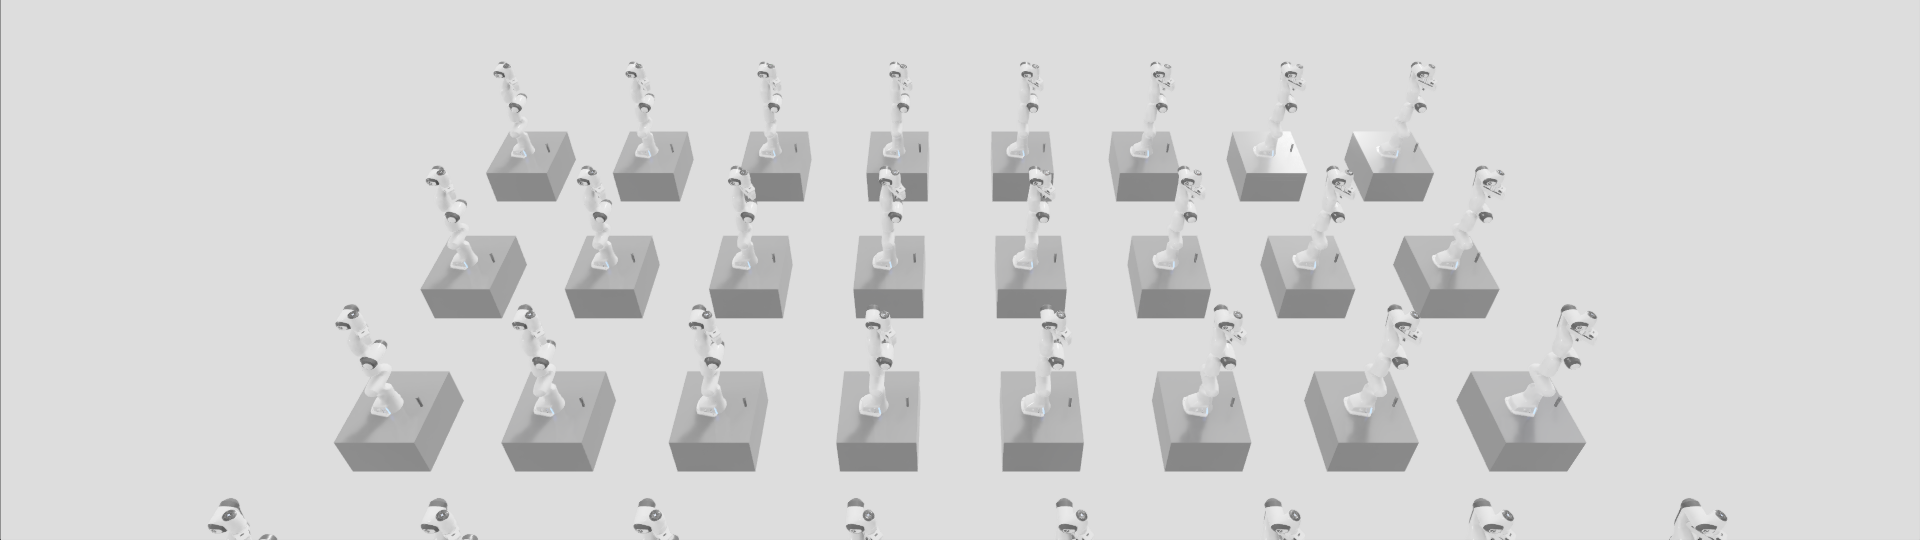
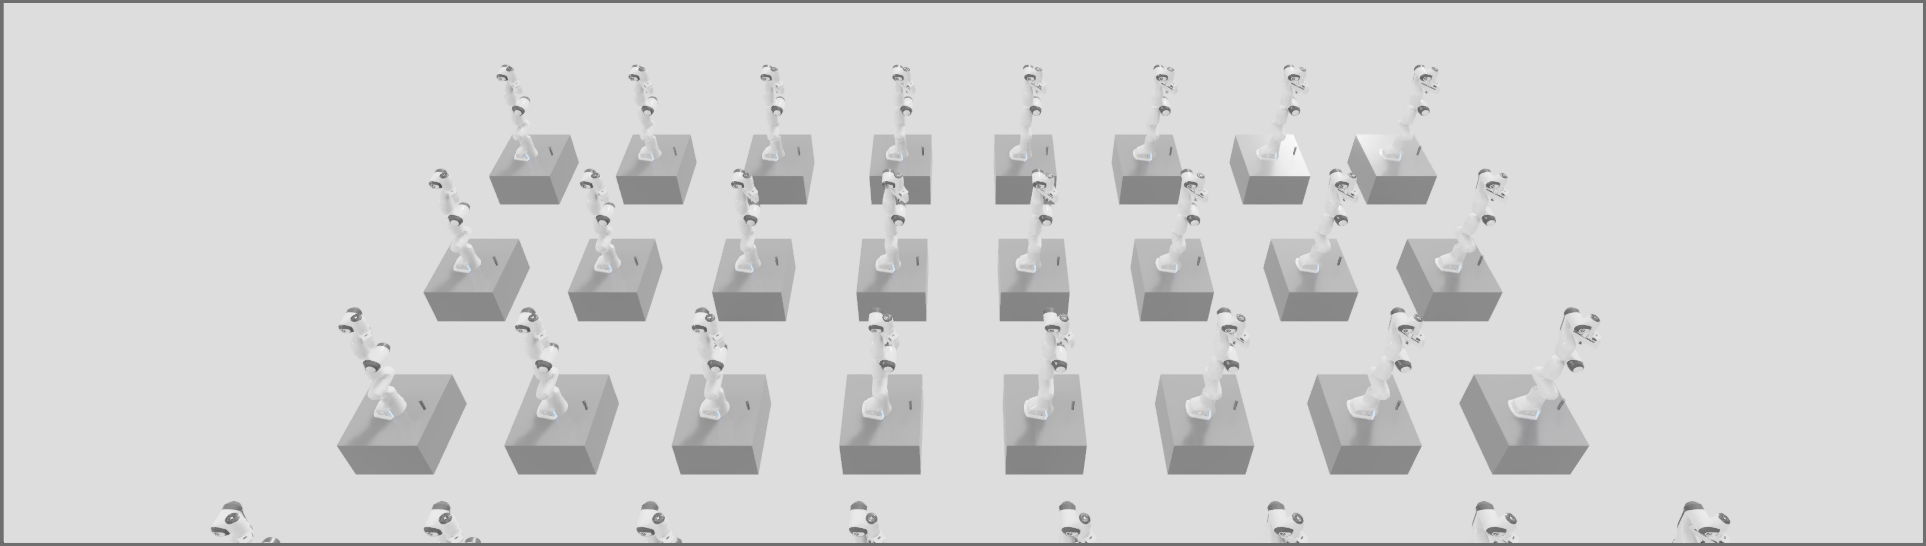
docs: center task3 screenshot + bake borders into README screenshots
- Center the wine-cellar insertion screenshot via <div align="center">
  (GitHub strips CSS, so center with the allowed align attribute).
- Bake a 3px gray border into the screenshots (CSS borders don't survive
  GitHub's sanitizer) — render_preview.png and the insertion still.
- Bump the insertion still to _v3 (content changed) to dodge the camo cache.

Claude-Session: https://claude.ai/code/session_01P2B6EWdnjgSZqJz18wP51w

diff --git a/README.md b/README.md
@@ -41,7 +41,9 @@ vertical** (tilt 0.0°), seated on the cell floor and dead-centered, with no jam
 rack. Real physics throughout — the bottle is a dynamic rigid body held by a genuine friction
 grip, never teleported during the carry.
 
-<img src="docs/videos/task3/wine_cellar_insert_v2.png" width="520" alt="Wine-cellar insertion: Franka carrying the wine bottle aligned over the rack cell">
+<div align="center">
+  <img src="docs/videos/task3/wine_cellar_insert_v3.png" width="520" alt="Wine-cellar insertion: Franka carrying the wine bottle aligned over the rack cell">
+</div>
 
 
 ▶️ **[`docs/videos/task3/pick_place_eval_001.mp4`](docs/videos/task3/pick_place_eval_001.mp4)**

diff --git a/docs/task3/README.md b/docs/task3/README.md
@@ -19,7 +19,9 @@ the arm carries the bottle to a wood wine-rack and **inserts it into a cell**, e
 perfectly vertical (tilt ≈ 0°) on the cell floor — a clean, gentle, contact-rich placement with
 no flick. See **[`05-wine-cellar-insertion.md`](05-wine-cellar-insertion.md)**.
 
-<img src="../videos/task3/wine_cellar_insert_v2.png" width="520" alt="Wine-cellar insertion: Franka carrying the wine bottle aligned over the rack cell">
+<div align="center">
+  <img src="../videos/task3/wine_cellar_insert_v3.png" width="520" alt="Wine-cellar insertion: Franka carrying the wine bottle aligned over the rack cell">
+</div>
 
 
 The earlier variant set the bottle on an **open shelf** and righted it about the contact pivot